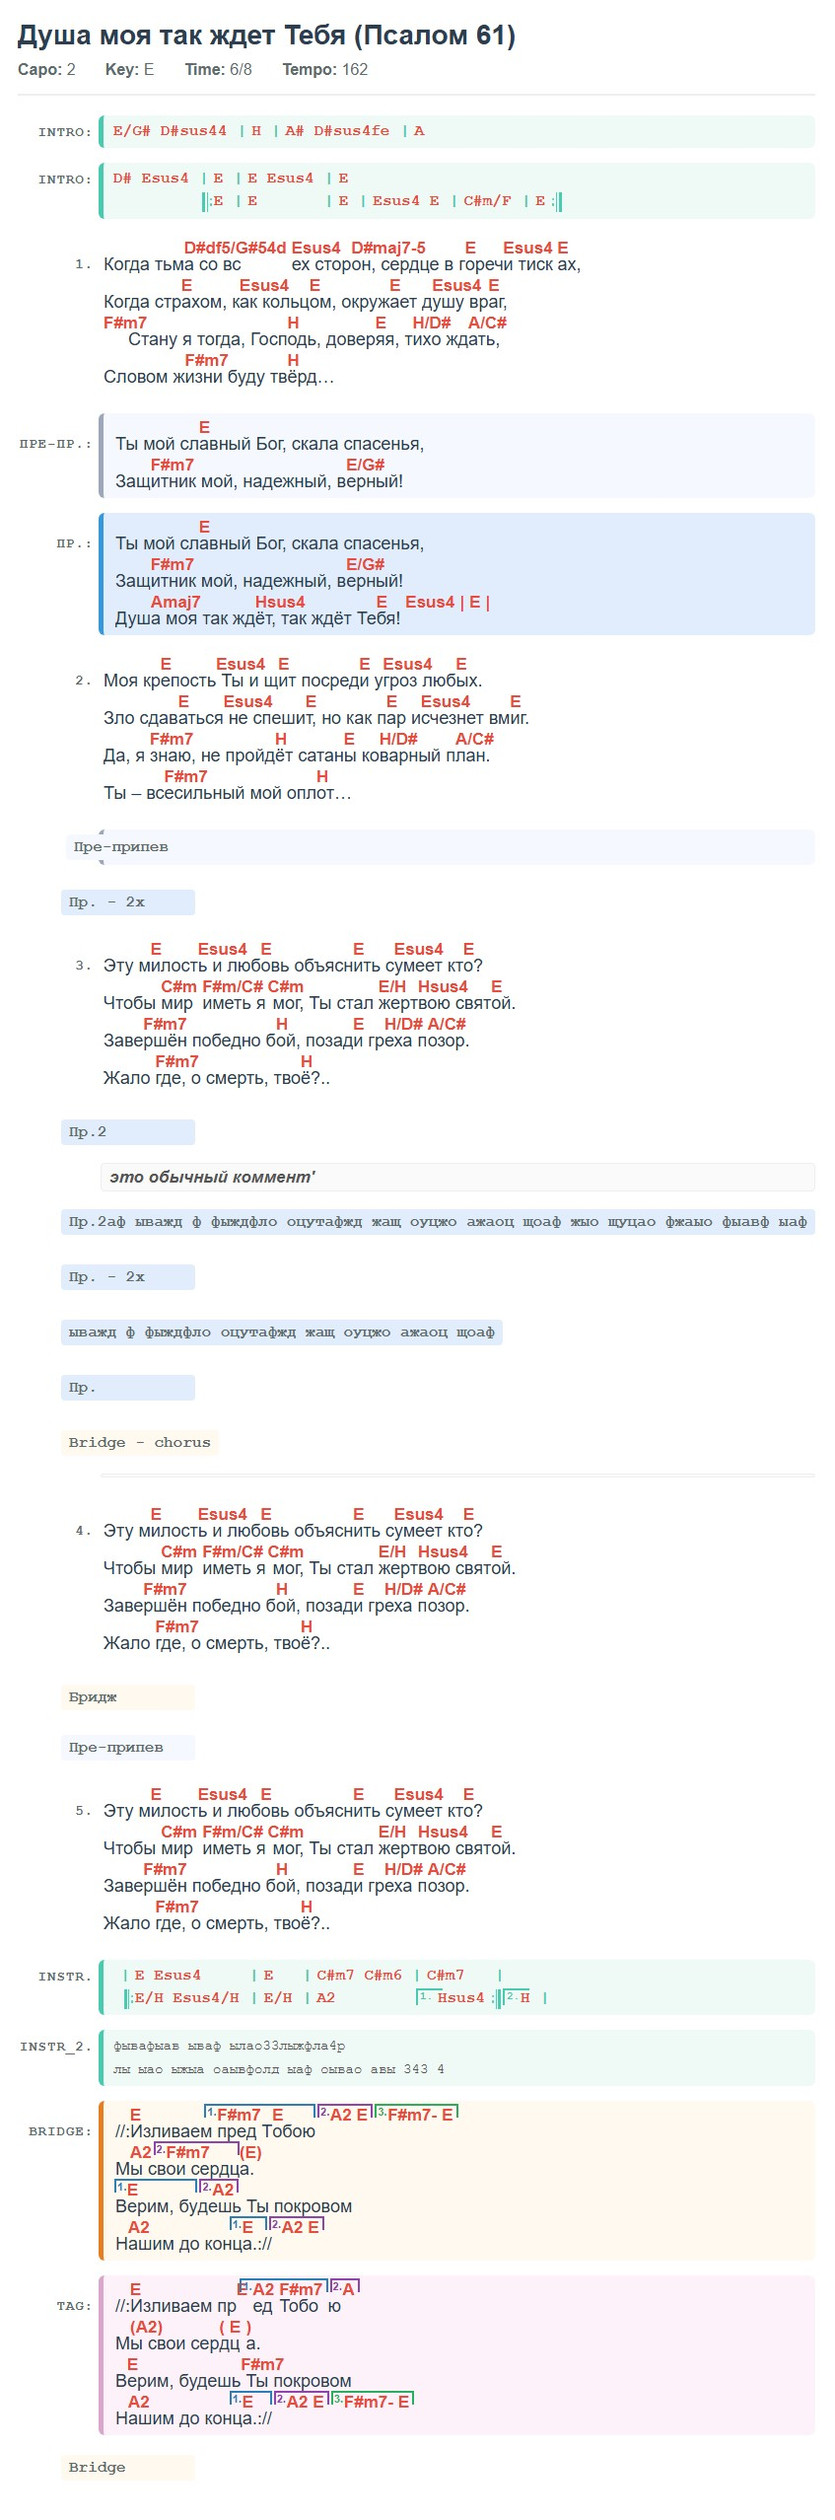
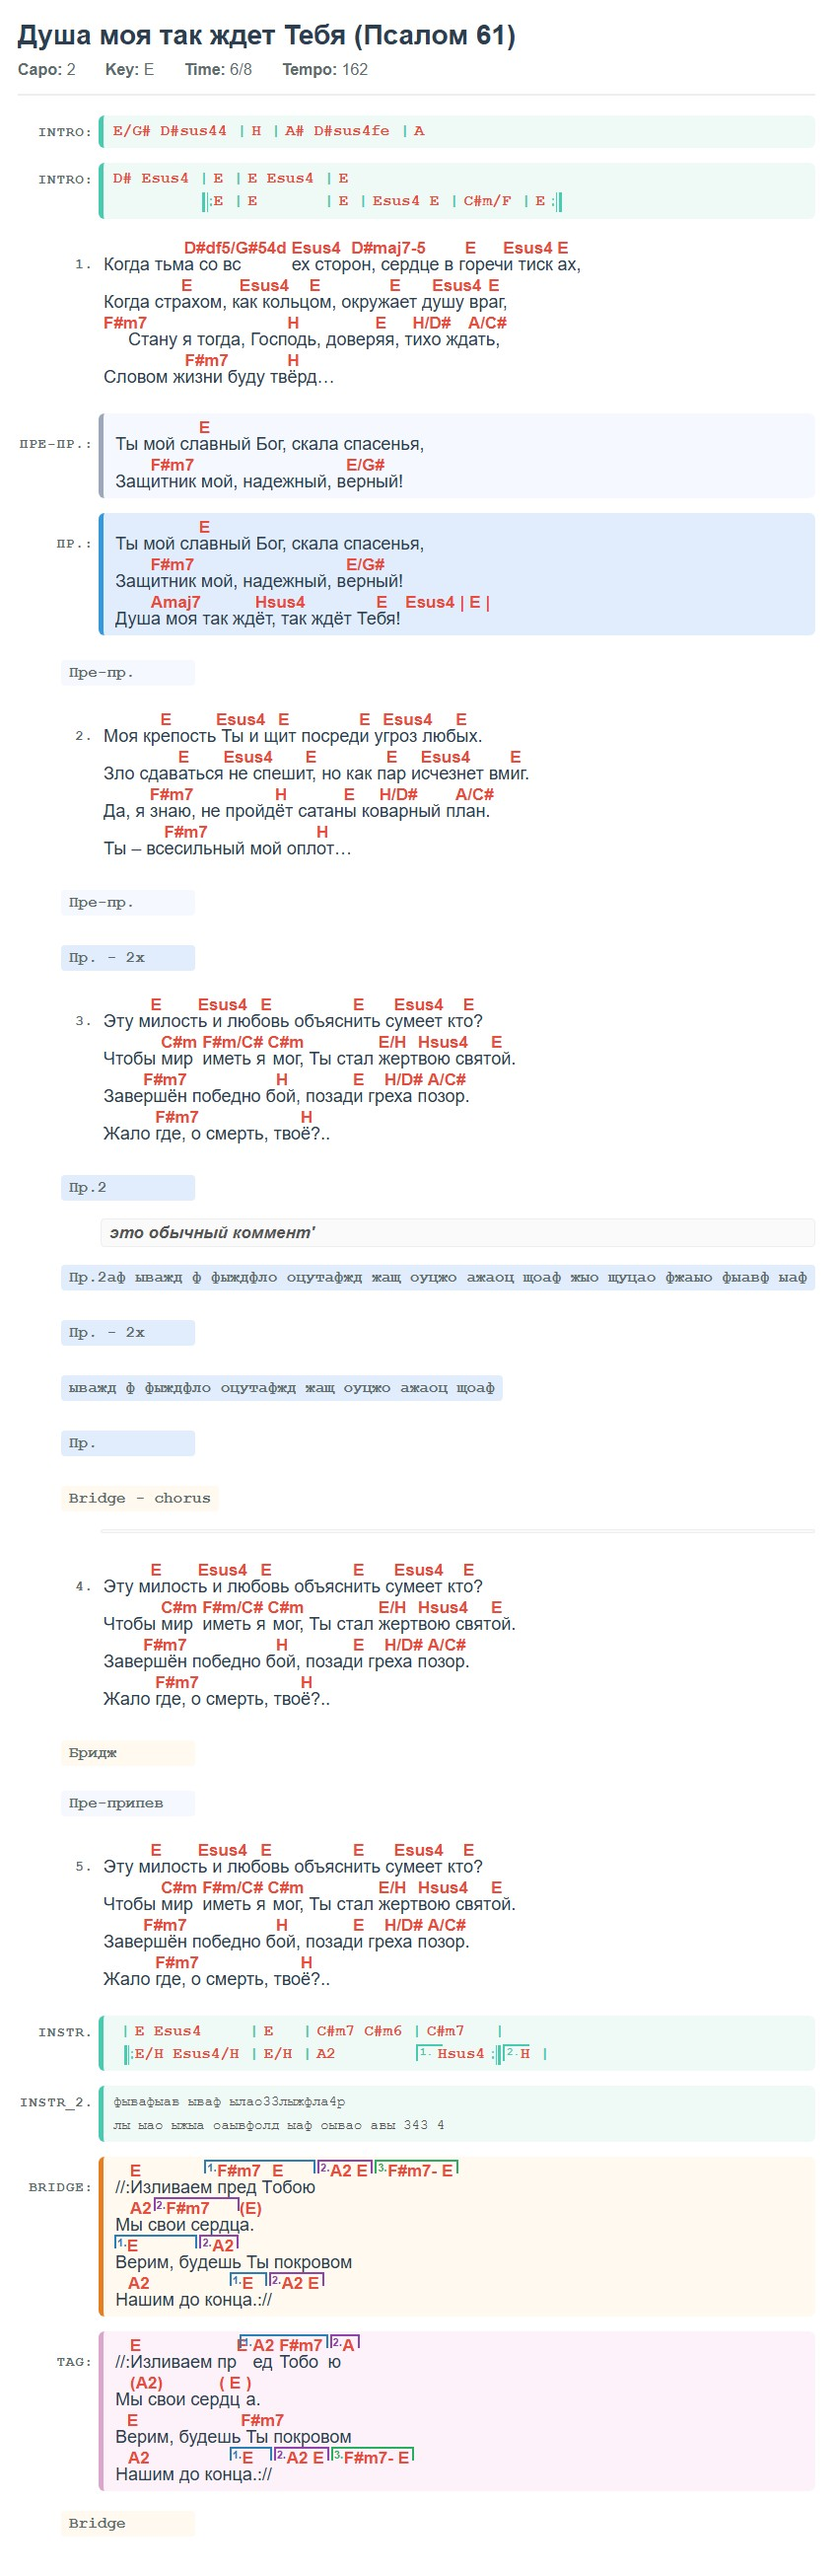
Доработал ссылки на пр/брид/... отступы, цвет фона бр.

diff --git a/styles/style.css b/styles/style.css
@@ -4,7 +4,7 @@
     --chord-color: #e74c3c;
     --chorus-bg-color: #e1edfc;  /* Привязано к .layout-sidebar .section.chorus .section-content */
     --pre-chorus-bg-color: #f5f9ff;  /* Привязано к .layout-sidebar .section.pre_chorus .section-content */
-    --bridge-bg-color: #fff9f0;  /* Привязано к .layout-sidebar .section.bridge .section-content */
+    --bridge-bg-color: #fff3e1;  /* Привязано к .layout-sidebar .section.bridge .section-content */
 }
 body {
     font-family: 'Helvetica Neue', Helvetica, Arial, sans-serif;
@@ -48,11 +48,11 @@ body {
 }
 
 .section {
-    margin-bottom: 15px;
+    margin-bottom: 17px;
     page-break-inside: avoid;
 }
 
-.section.verse { margin-bottom: 20px; }
+.section.verse { margin-bottom: 17px; }
 
 .layout-sidebar .section.verse .section-content { padding: 5px; }
 
@@ -73,7 +73,6 @@ body {
 /* Empty Chorus (Standard Layout) */
 .section.chorus.section-empty {
     /* Use standard chorus styles but add extra margin */
-    margin-top: 25px;
     margin-bottom: 20px;
 }
 
@@ -412,6 +411,8 @@ body {
 }
 
 .layout-sidebar .section-content {
+    padding-top: 0px;
+    padding-bottom: 0px;
     flex-grow: 1;
     width: auto;
 }
@@ -451,11 +452,13 @@ body {
 .layout-sidebar .section.chorus.section-empty .section-content {
     background-color: transparent;
     /*padding: 0;*/
+    padding-top: 0px;
+    padding-bottom: 0px;
     border: none;
 }
 
 .layout-sidebar .section.chorus.section-empty {
-    margin-top: 20px;
+    margin-top: 0px;
     margin-bottom: 15px;
 }
 

diff --git a/output_jpg/Душа моя так ждёт Тебя.chordpro.html b/output_jpg/Душа моя так ждёт Тебя.chordpro.html
@@ -712,6 +712,25 @@
                 </div>
             </div>
             
+            <div class="section chorus section-empty  ">
+                
+                    
+                    <div class="section-label">
+                        
+                    </div>
+                    
+                
+
+                <div class="section-content">
+                    
+                        
+                        <div class="section-reference pre_chorus">
+                            <span class="lyrics">Пре-пр.</span>
+                        </div>
+                    
+                </div>
+            </div>
+            
             <div class="section verse  offset-label ">
                 
                     
@@ -850,7 +869,7 @@
                 </div>
             </div>
             
-            <div class="section pre_chorus section-empty  ">
+            <div class="section chorus section-empty  ">
                 
                     
                     <div class="section-label">
@@ -863,7 +882,7 @@
                     
                         
                         <div class="section-reference pre_chorus">
-                            <span class="lyrics">Пре-припев</span>
+                            <span class="lyrics">Пре-пр.</span>
                         </div>
                     
                 </div>

diff --git a/chordpro/parser.py b/chordpro/parser.py
@@ -61,11 +61,7 @@ class ChordProParser:
                     song.sections.append(current_section)
                 elif key == "chorus":
                     label = value if value else "Пр."  # Item 2: Handle bare {chorus}
-                    # Also check for Pre-chorus shorthand if it exists (unlikely but safe)
-                    if label.lower().startswith("пре-пр"):
-                        current_section = Section(type="pre_chorus", label=label)
-                    else:
-                        current_section = Section(type="chorus", label=label)
+                    current_section = Section(type="chorus", label=label)
                     song.sections.append(current_section)
                     current_section = None
                 elif key in ["sov", "start_of_verse"]:
